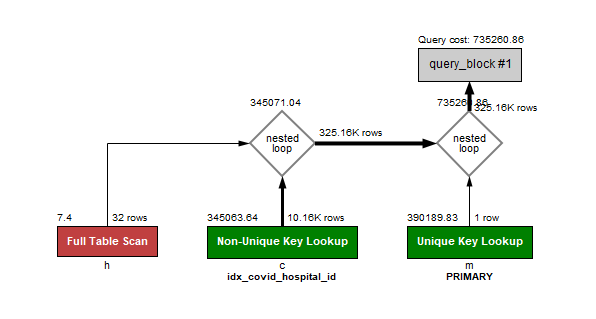
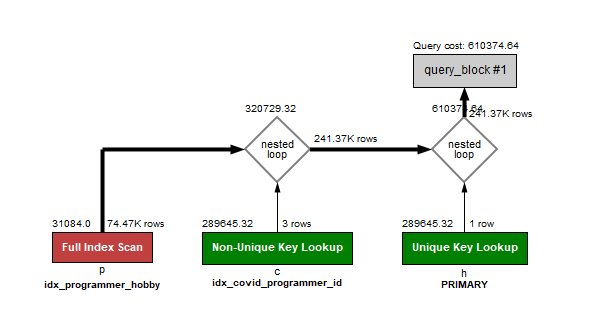
doc(README.md): 쿼리 수정 추가

Changed region(s): [[0.0604, 0.1129, 0.906, 0.9028], [0.6644, 0.6489, 0.906, 0.8746]]

diff --git a/README.md b/README.md
@@ -256,9 +256,9 @@ inner join (
 
 ```sql
 select c.id, h.name
-from hospital h
-inner join covid c on c.hospital_id = h.id
-inner join member m on m.id = c.member_id;
+from programmer p
+inner join covid c on c.programmer_id = p.id
+inner join hospital h on h.id = c.hospital_id;
 ```
 
 ![이미지](/query/step4/question1_explain.png)
